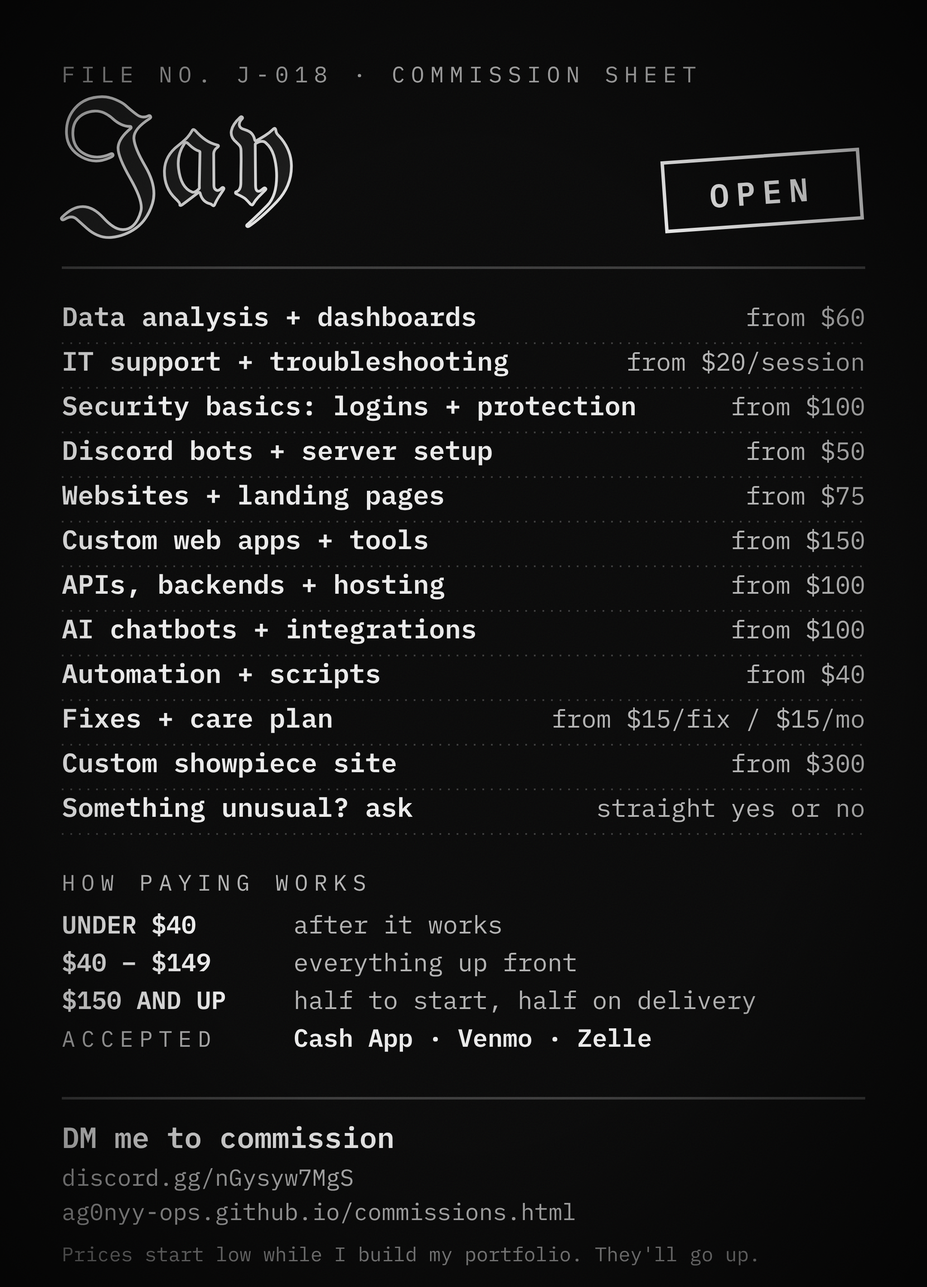
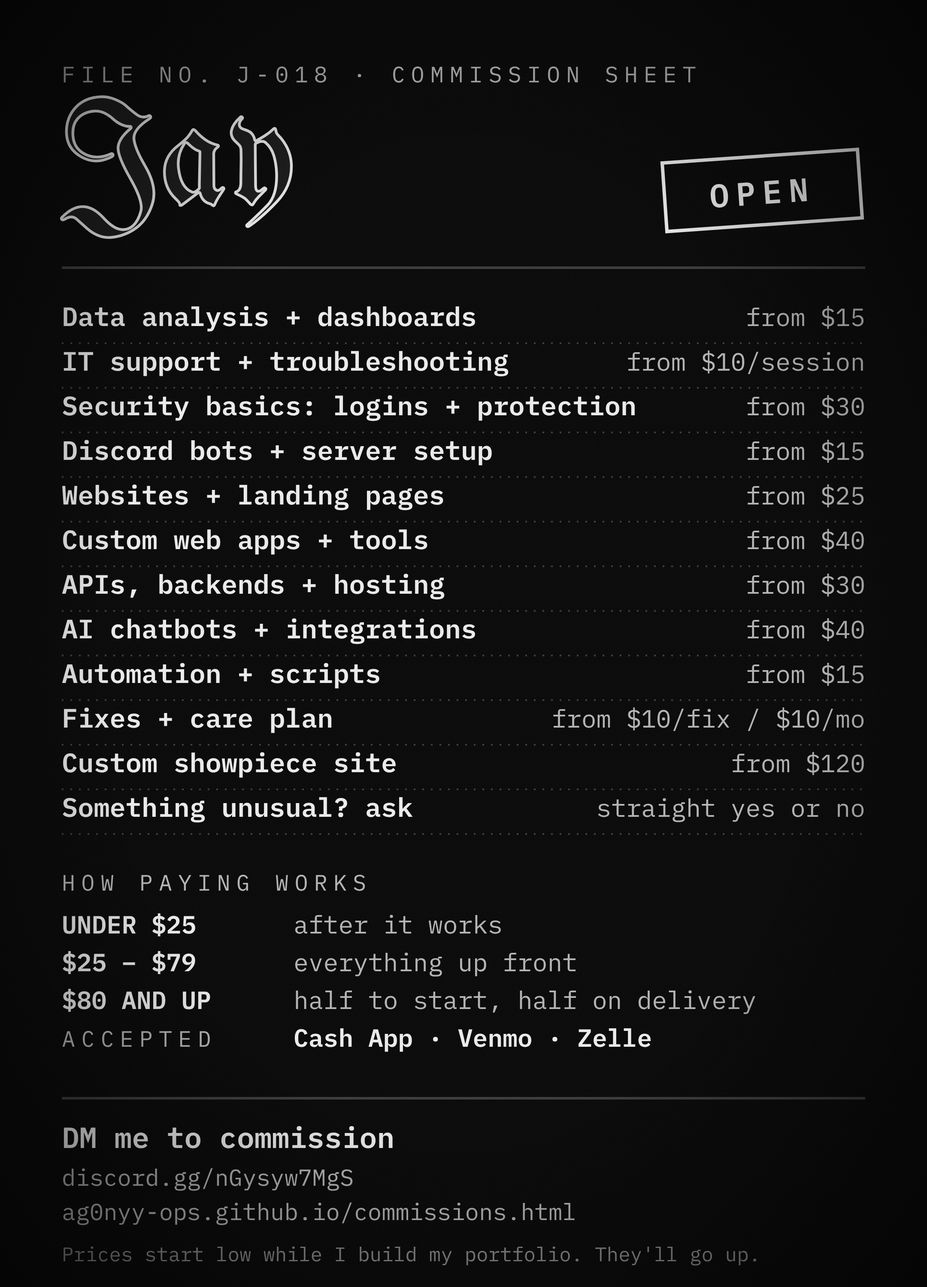
Cut all prices to realistic starter rates; new payment tiers

diff --git a/assets/data/everything.js b/assets/data/everything.js
@@ -31,114 +31,114 @@ window.EVERYTHING = {
   ],
   items: [
     // ---- data ----
-    [0, 1, 'Clean a messy spreadsheet', 'Fix dates, duplicates and typos so it is usable.', 60],
-    [0, 1, 'Answer one data question', 'A query or pivot table and a short written answer.', 60],
-    [0, 1, 'Turn a CSV into a chart', 'One clear chart you can drop into a doc or a post.', 70],
-    [0, 1, 'Merge two spreadsheets', 'Match rows from two sources into one clean sheet.', 80],
-    [0, 2, 'Monthly report that re-runs', 'Several sources in, one repeatable report out.', 120],
-    [0, 2, 'Member or sales stats', 'Counts, trends and top lists from your exports.', 130],
-    [0, 2, 'Survey results breakdown', 'Responses cleaned, grouped and charted.', 150],
-    [0, 3, 'Live dashboard', 'Charts that update from your data on their own.', 250],
-    [0, 3, 'Data pipeline', 'Pulls from an API or sheet on a schedule into a database.', 350],
-    [0, 3, 'Report sent on a schedule', 'A finished report lands in Discord or email every week.', 280],
+    [0, 1, 'Clean a messy spreadsheet', 'Fix dates, duplicates and typos so it is usable.', 15],
+    [0, 1, 'Answer one data question', 'A query or pivot table and a short written answer.', 15],
+    [0, 1, 'Turn a CSV into a chart', 'One clear chart you can drop into a doc or a post.', 20],
+    [0, 1, 'Merge two spreadsheets', 'Match rows from two sources into one clean sheet.', 25],
+    [0, 2, 'Monthly report that re-runs', 'Several sources in, one repeatable report out.', 40],
+    [0, 2, 'Member or sales stats', 'Counts, trends and top lists from your exports.', 45],
+    [0, 2, 'Survey results breakdown', 'Responses cleaned, grouped and charted.', 50],
+    [0, 3, 'Live dashboard', 'Charts that update from your data on their own.', 90],
+    [0, 3, 'Data pipeline', 'Pulls from an API or sheet on a schedule into a database.', 130],
+    [0, 3, 'Report sent on a schedule', 'A finished report lands in Discord or email every week.', 100],
     // ---- it support ----
-    [1, 1, 'Fix an account lockout', 'Get you back into an account and make it safer.', 20, '/session'],
-    [1, 1, 'Clean up a slow computer', 'Find what is slowing it down and fix it.', 20, '/session'],
-    [1, 1, 'Set up two-factor login', 'Turn on 2FA and store the backup codes properly.', 25, '/session'],
-    [1, 1, 'Fix email or calendar sync', 'Sort out accounts that will not sync.', 25, '/session'],
-    [1, 2, 'Set up a new computer', 'Apps, accounts, backups and settings in one go.', 60],
-    [1, 2, 'Backups that actually work', 'Automatic backups, tested with a real restore.', 70],
-    [1, 2, 'Password manager setup', 'Move your logins in and show you how to use it.', 60],
-    [1, 3, 'Monthly support plan', 'A regular check-in plus fixes as they come up.', 40, '/mo'],
-    [1, 3, 'Small team setup', 'Accounts, shared files and permissions for a small group.', 150],
-    [1, 3, 'Document your setup', 'A written guide so anyone can fix it later.', 120],
+    [1, 1, 'Fix an account lockout', 'Get you back into an account and make it safer.', 10, '/session'],
+    [1, 1, 'Clean up a slow computer', 'Find what is slowing it down and fix it.', 10, '/session'],
+    [1, 1, 'Set up two-factor login', 'Turn on 2FA and store the backup codes properly.', 10, '/session'],
+    [1, 1, 'Fix email or calendar sync', 'Sort out accounts that will not sync.', 10, '/session'],
+    [1, 2, 'Set up a new computer', 'Apps, accounts, backups and settings in one go.', 25],
+    [1, 2, 'Backups that actually work', 'Automatic backups, tested with a real restore.', 30],
+    [1, 2, 'Password manager setup', 'Move your logins in and show you how to use it.', 25],
+    [1, 3, 'Monthly support plan', 'A regular check-in plus fixes as they come up.', 20, '/mo'],
+    [1, 3, 'Small team setup', 'Accounts, shared files and permissions for a small group.', 60],
+    [1, 3, 'Document your setup', 'A written guide so anyone can fix it later.', 45],
     // ---- security basics ----
-    [2, 1, 'Check a site\'s basics', 'Headers, cookies and exposed secrets, with a fix list.', 100],
-    [2, 1, 'Find leaked keys in a repo', 'Scan your code and its whole history for secrets.', 100, null, 'b'],
-    [2, 1, 'Move secrets out of your code', 'Environment variables and a safe place to keep keys.', 110],
-    [2, 1, 'Add a Discord login', 'OAuth2 sign-in with Discord, done safely.', 150],
-    [2, 2, 'Google or GitHub login', 'OAuth2 sign-in with safe token handling.', 200],
-    [2, 2, 'Lock down sessions and cookies', 'HttpOnly, Secure and SameSite set properly.', 200, null, 'b'],
-    [2, 2, 'Stop CSRF on your forms', 'A token plus an origin check on every change.', 220, null, 'b'],
-    [2, 2, 'Secret scanner for your repo', 'Fails the build if a key ever gets committed.', 200, null, 'b'],
-    [2, 3, 'Encrypt stored tokens', 'Tokens encrypted at rest and tied to where they live.', 350, null, 'b'],
-    [2, 3, 'Security write-up and review', 'What is covered, what is not, and what to fix next.', 400],
+    [2, 1, 'Check a site\'s basics', 'Headers, cookies and exposed secrets, with a fix list.', 30],
+    [2, 1, 'Find leaked keys in a repo', 'Scan your code and its whole history for secrets.', 30, null, 'b'],
+    [2, 1, 'Move secrets out of your code', 'Environment variables and a safe place to keep keys.', 35],
+    [2, 1, 'Add a Discord login', 'OAuth2 sign-in with Discord, done safely.', 50],
+    [2, 2, 'Google or GitHub login', 'OAuth2 sign-in with safe token handling.', 80],
+    [2, 2, 'Lock down sessions and cookies', 'HttpOnly, Secure and SameSite set properly.', 80, null, 'b'],
+    [2, 2, 'Stop CSRF on your forms', 'A token plus an origin check on every change.', 80, null, 'b'],
+    [2, 2, 'Secret scanner for your repo', 'Fails the build if a key ever gets committed.', 80, null, 'b'],
+    [2, 3, 'Encrypt stored tokens', 'Tokens encrypted at rest and tied to where they live.', 140, null, 'b'],
+    [2, 3, 'Security write-up and review', 'What is covered, what is not, and what to fix next.', 150],
     // ---- discord ----
-    [3, 1, 'Server setup', 'Roles, channels and permissions set up properly.', 50, null, 'b'],
-    [3, 1, 'Welcome message and rules', 'A welcome post and a rules command.', 50, null, 'b'],
-    [3, 1, 'Built-in AutoMod rules', 'Spam, invite links and blocked words, with staff alerts.', 60, null, 'b'],
-    [3, 1, 'Role menus', 'Let members pick their own roles with buttons.', 70, null, 'b'],
-    [3, 2, 'Moderation bot', 'Warn, timeout, kick and ban, every action saved as a case.', 100, null, 'b'],
-    [3, 2, 'Role applications', 'A form, staff review, and approve or deny.', 120, null, 'b'],
-    [3, 2, 'Counting game bot', 'A counting channel that even accepts math like 2x+5=45.', 100, null, 'b'],
-    [3, 3, 'Moderation with escalation', 'Repeat offenders get stricter results, with appeals and a log.', 250, null, 'b'],
-    [3, 3, 'AI chat bot', 'Replies in character and looks up your real rules.', 280, null, 'b'],
-    [3, 3, 'The whole server system', 'Moderation, applications, welcome and AI chat, end to end.', 300, null, 'b'],
+    [3, 1, 'Server setup', 'Roles, channels and permissions set up properly.', 15, null, 'b'],
+    [3, 1, 'Welcome message and rules', 'A welcome post and a rules command.', 15, null, 'b'],
+    [3, 1, 'Built-in AutoMod rules', 'Spam, invite links and blocked words, with staff alerts.', 20, null, 'b'],
+    [3, 1, 'Role menus', 'Let members pick their own roles with buttons.', 15, null, 'b'],
+    [3, 2, 'Moderation bot', 'Warn, timeout, kick and ban, every action saved as a case.', 35, null, 'b'],
+    [3, 2, 'Role applications', 'A form, staff review, and approve or deny.', 40, null, 'b'],
+    [3, 2, 'Counting game bot', 'A counting channel that even accepts math like 2x+5=45.', 35, null, 'b'],
+    [3, 3, 'Moderation with escalation', 'Repeat offenders get stricter results, with appeals and a log.', 100, null, 'b'],
+    [3, 3, 'AI chat bot', 'Replies in character and looks up your real rules.', 120, null, 'b'],
+    [3, 3, 'The whole server system', 'Moderation, applications, welcome and AI chat, end to end.', 150, null, 'b'],
     // ---- websites ----
-    [4, 1, 'One-page site', 'A single page that does one job.', 75],
-    [4, 1, 'Link-in-bio page', 'All your links on one fast page.', 75],
-    [4, 1, 'Event page', 'Date, place, details and a way to reach you.', 85],
-    [4, 1, 'Menu or price list page', 'Your services or menu, easy to read on a phone.', 90],
-    [4, 2, 'Small business site', 'Up to about five pages with a contact path that works.', 150],
-    [4, 2, 'Portfolio site', 'Show your work properly, in your own style.', 180],
-    [4, 2, 'Site refresh', 'Take an old site and rebuild it faster and cleaner.', 160],
-    [4, 3, 'Showpiece site', 'A custom, memorable site with hand-built effects.', 300],
-    [4, 3, 'Interactive landing page', 'Animation and interaction that make people stay.', 350],
-    [4, 3, 'A site with its own design system', 'Fonts, colours and pieces that stay consistent.', 400],
+    [4, 1, 'One-page site', 'A single page that does one job.', 30],
+    [4, 1, 'Link-in-bio page', 'All your links on one fast page.', 25],
+    [4, 1, 'Event page', 'Date, place, details and a way to reach you.', 30],
+    [4, 1, 'Menu or price list page', 'Your services or menu, easy to read on a phone.', 35],
+    [4, 2, 'Small business site', 'Up to about five pages with a contact path that works.', 60],
+    [4, 2, 'Portfolio site', 'Show your work properly, in your own style.', 75],
+    [4, 2, 'Site refresh', 'Take an old site and rebuild it faster and cleaner.', 60],
+    [4, 3, 'Showpiece site', 'A custom, memorable site with hand-built effects.', 120],
+    [4, 3, 'Interactive landing page', 'Animation and interaction that make people stay.', 140],
+    [4, 3, 'A site with its own design system', 'Fonts, colours and pieces that stay consistent.', 160],
     // ---- web apps ----
-    [5, 1, 'Calculator or converter', 'One small tool that does one thing well.', 150],
-    [5, 1, 'Tracker', 'Track anything in a simple, fast tool.', 160],
-    [5, 1, 'Form that fills a spreadsheet', 'Collect answers and keep them in one sheet.', 150],
-    [5, 1, 'Countdown or timer page', 'A clean page for events, launches or goals.', 150],
-    [5, 2, 'Tool with logins', 'A small app where each person has an account.', 300],
-    [5, 2, 'Booking or sign-up page', 'People sign up and you see who is coming.', 330],
-    [5, 2, 'Admin panel', 'A page to manage your data without touching code.', 350],
-    [5, 3, 'Multi-user app with roles', 'Roles, permissions and a real database.', 500],
-    [5, 3, 'Team dashboard app', 'Charts and tables for a team, with logins.', 550],
-    [5, 3, 'A full product build', 'Several features, deployed, with written notes.', 700],
+    [5, 1, 'Calculator or converter', 'One small tool that does one thing well.', 50],
+    [5, 1, 'Tracker', 'Track anything in a simple, fast tool.', 55],
+    [5, 1, 'Form that fills a spreadsheet', 'Collect answers and keep them in one sheet.', 45],
+    [5, 1, 'Countdown or timer page', 'A clean page for events, launches or goals.', 40],
+    [5, 2, 'Tool with logins', 'A small app where each person has an account.', 110],
+    [5, 2, 'Booking or sign-up page', 'People sign up and you see who is coming.', 130],
+    [5, 2, 'Admin panel', 'A page to manage your data without touching code.', 140],
+    [5, 3, 'Multi-user app with roles', 'Roles, permissions and a real database.', 220],
+    [5, 3, 'Team dashboard app', 'Charts and tables for a team, with logins.', 240],
+    [5, 3, 'A full product build', 'Several features, deployed, with written notes.', 350],
     // ---- automation ----
-    [6, 1, 'Rename and sort files', 'A script that tidies a folder for you.', 40],
-    [6, 1, 'Pull a public page into a sheet', 'Collect info from a public page, respecting its rules.', 50],
-    [6, 1, 'Daily reminder', 'A message to Discord or email on a schedule.', 40],
-    [6, 1, 'Bulk edit script', 'Change hundreds of items at once without clicking.', 60],
-    [6, 2, 'Spreadsheet to Discord alerts', 'A new row sends a message to your server.', 100],
-    [6, 2, 'Auto-posting bot', 'Posts updates to your server on a schedule.', 100],
-    [6, 2, 'Form that triggers several steps', 'One submission kicks off a chain of actions.', 120],
-    [6, 3, 'Multi-step workflow', 'Several tools chained so the boring work runs itself.', 200],
-    [6, 3, 'Monitoring with alerts', 'Checks something and tells you when it breaks.', 220],
-    [6, 3, 'Automation that retries and logs', 'Keeps running and keeps a record when things fail.', 250],
+    [6, 1, 'Rename and sort files', 'A script that tidies a folder for you.', 15],
+    [6, 1, 'Pull a public page into a sheet', 'Collect info from a public page, respecting its rules.', 20],
+    [6, 1, 'Daily reminder', 'A message to Discord or email on a schedule.', 15],
+    [6, 1, 'Bulk edit script', 'Change hundreds of items at once without clicking.', 25],
+    [6, 2, 'Spreadsheet to Discord alerts', 'A new row sends a message to your server.', 40],
+    [6, 2, 'Auto-posting bot', 'Posts updates to your server on a schedule.', 40],
+    [6, 2, 'Form that triggers several steps', 'One submission kicks off a chain of actions.', 50],
+    [6, 3, 'Multi-step workflow', 'Several tools chained so the boring work runs itself.', 90],
+    [6, 3, 'Monitoring with alerts', 'Checks something and tells you when it breaks.', 100],
+    [6, 3, 'Automation that retries and logs', 'Keeps running and keeps a record when things fail.', 110],
     // ---- ai ----
-    [7, 1, 'Chatbot for your FAQ', 'Answers the questions you keep getting.', 100],
-    [7, 1, 'Summarize long text', 'Turn long threads or documents into short summaries.', 100],
-    [7, 1, 'Reply drafter you review', 'Drafts replies that you read and send yourself.', 120],
-    [7, 1, 'Rewrite in your voice', 'Your text, cleaned up and still sounding like you.', 100],
-    [7, 2, 'Bot that looks things up', 'Pulls real answers from your data instead of guessing.', 200],
-    [7, 2, 'Ask your documents', 'Search and question your own files.', 220],
-    [7, 2, 'Server assistant with your real rules', 'Answers members from your actual rules and info.', 200, null, 'b'],
-    [7, 3, 'Assistant that asks before it acts', 'Proposes actions and waits for a human to confirm.', 300, null, 'b'],
-    [7, 3, 'Model picker with usage limits', 'A smarter model for hard questions, with budgets.', 350, null, 'b'],
-    [7, 3, 'AI wired into your tools', 'Connected to your systems, like my Discord bots.', 320, null, 'b'],
+    [7, 1, 'Chatbot for your FAQ', 'Answers the questions you keep getting.', 40],
+    [7, 1, 'Summarize long text', 'Turn long threads or documents into short summaries.', 40],
+    [7, 1, 'Reply drafter you review', 'Drafts replies that you read and send yourself.', 50],
+    [7, 1, 'Rewrite in your voice', 'Your text, cleaned up and still sounding like you.', 40],
+    [7, 2, 'Bot that looks things up', 'Pulls real answers from your data instead of guessing.', 90],
+    [7, 2, 'Ask your documents', 'Search and question your own files.', 100],
+    [7, 2, 'Server assistant with your real rules', 'Answers members from your actual rules and info.', 90, null, 'b'],
+    [7, 3, 'Assistant that asks before it acts', 'Proposes actions and waits for a human to confirm.', 140, null, 'b'],
+    [7, 3, 'Model picker with usage limits', 'A smarter model for hard questions, with budgets.', 160, null, 'b'],
+    [7, 3, 'AI wired into your tools', 'Connected to your systems, like my Discord bots.', 150, null, 'b'],
     // ---- backends + apis ----
-    [8, 1, 'A small API', 'A few endpoints that return what you need.', 100],
-    [8, 1, 'Webhook receiver', 'Catches events from another service and acts on them.', 100],
-    [8, 1, 'Hosting setup', 'Get something deployed and running online.', 100],
-    [8, 1, 'Domain and HTTPS', 'Point your domain at your site over a secure connection.', 100],
-    [8, 2, 'API with a database', 'Store and read your data safely.', 200],
-    [8, 2, 'Login-protected API', 'Only the right people can use it.', 250],
-    [8, 2, 'Scheduled jobs', 'Tasks that run on their own at set times.', 200],
-    [8, 3, 'A full backend', 'Database, logins, scheduled jobs and deployment.', 400],
-    [8, 3, 'Cloudflare Worker app', 'Serverless and fast, like my project skyscrob.', 450, null, 'b'],
-    [8, 3, 'Backups and monitoring', 'Your data backed up and problems noticed early.', 400],
+    [8, 1, 'A small API', 'A few endpoints that return what you need.', 40],
+    [8, 1, 'Webhook receiver', 'Catches events from another service and acts on them.', 40],
+    [8, 1, 'Hosting setup', 'Get something deployed and running online.', 40],
+    [8, 1, 'Domain and HTTPS', 'Point your domain at your site over a secure connection.', 30],
+    [8, 2, 'API with a database', 'Store and read your data safely.', 90],
+    [8, 2, 'Login-protected API', 'Only the right people can use it.', 110],
+    [8, 2, 'Scheduled jobs', 'Tasks that run on their own at set times.', 90],
+    [8, 3, 'A full backend', 'Database, logins, scheduled jobs and deployment.', 180],
+    [8, 3, 'Cloudflare Worker app', 'Serverless and fast, like my project skyscrob.', 200, null, 'b'],
+    [8, 3, 'Backups and monitoring', 'Your data backed up and problems noticed early.', 180],
     // ---- hardware + mobile ----
-    [9, 1, 'Phone app prototype', 'A clickable prototype to test an idea.', 100],
-    [9, 1, 'Sensor reading logger', 'A board that records readings to a file or screen.', 150, null, 'y'],
-    [9, 1, 'LED or button project', 'A small device you can interact with.', 120, null, 'y'],
-    [9, 1, 'Raspberry Pi dashboard', 'Show readings from a Pi on a web page.', 150, null, 'y'],
-    [9, 2, 'Microcontroller project', 'Firmware for a board, scoped together first.', 300, null, 'y'],
-    [9, 2, 'Device that sends Discord alerts', 'A board that messages your server when something happens.', 350, null, 'y'],
-    [9, 2, 'iOS app in SwiftUI', 'A native app built and tested with you.', 400, null, 'y'],
-    [9, 3, 'Hardware and app together', 'A device and an app that work as one.', 600, null, 'y'],
-    [9, 3, 'A full iOS app', 'Built end to end. You provide the Apple developer account.', 500, null, 'y'],
-    [9, 3, 'Something unusual', 'If we can pull it off, we do it. I say yes or no first.', 500, null, 'y'],
+    [9, 1, 'Phone app prototype', 'A clickable prototype to test an idea.', 50],
+    [9, 1, 'Sensor reading logger', 'A board that records readings to a file or screen.', 70, null, 'y'],
+    [9, 1, 'LED or button project', 'A small device you can interact with.', 50, null, 'y'],
+    [9, 1, 'Raspberry Pi dashboard', 'Show readings from a Pi on a web page.', 70, null, 'y'],
+    [9, 2, 'Microcontroller project', 'Firmware for a board, scoped together first.', 130, null, 'y'],
+    [9, 2, 'Device that sends Discord alerts', 'A board that messages your server when something happens.', 150, null, 'y'],
+    [9, 2, 'iOS app in SwiftUI', 'A native app built and tested with you.', 180, null, 'y'],
+    [9, 3, 'Hardware and app together', 'A device and an app that work as one.', 280, null, 'y'],
+    [9, 3, 'A full iOS app', 'Built end to end. You provide the Apple developer account.', 250, null, 'y'],
+    [9, 3, 'Something unusual', 'If we can pull it off, we do it. I say yes or no first.', 250, null, 'y'],
   ],
 };

diff --git a/assets/data/prices.js b/assets/data/prices.js
@@ -13,35 +13,35 @@ window.PRICES = {
   label: 'from',                      // word in front of every price
   onRequest: 'quote on request',      // shown when amount is null
   items: {
-    'data':             { amount: 60 },                     // data analysis + dashboards
-    'it-support':       { amount: 20, per: '/session' },    // IT support + troubleshooting
-    'security':         { amount: 100 },                    // security basics: logins, tokens, protection
+    'data':             { amount: 15 },                     // data analysis + dashboards
+    'it-support':       { amount: 10, per: '/session' },    // IT support + troubleshooting
+    'security':         { amount: 30 },                    // security basics: logins, tokens, protection
     // --- levels: each card's first level uses the card's own price above; these are levels 2 and 3 ---
-    'data-report':      { amount: 120 },                    // data: report
-    'data-dashboard':   { amount: 250 },                    // data: dashboard
-    'it-setup':         { amount: 60 },                     // it: setup day
-    'it-plan':          { amount: 40, per: '/mo' },         // it: support plan
-    'security-standard':{ amount: 200 },                    // security: standard
-    'security-full':    { amount: 350 },                    // security: full basics
-    'discord-bot':      { amount: 100 },                    // discord: one custom bot
-    'discord-system':   { amount: 250 },                    // discord: the full system
-    'website-small':    { amount: 150 },                    // websites: small site
-    'web-app-standard': { amount: 300 },                    // web apps: app with accounts
-    'web-app-full':     { amount: 500 },                    // web apps: full app
+    'data-report':      { amount: 40 },                    // data: report
+    'data-dashboard':   { amount: 90 },                    // data: dashboard
+    'it-setup':         { amount: 25 },                     // it: setup day
+    'it-plan':          { amount: 20, per: '/mo' },         // it: support plan
+    'security-standard':{ amount: 80 },                    // security: standard
+    'security-full':    { amount: 140 },                    // security: full basics
+    'discord-bot':      { amount: 35 },                    // discord: one custom bot
+    'discord-system':   { amount: 150 },                    // discord: the full system
+    'website-small':    { amount: 60 },                    // websites: small site
+    'web-app-standard': { amount: 110 },                    // web apps: app with accounts
+    'web-app-full':     { amount: 220 },                    // web apps: full app
     // --- the big jobs (estimates: the final price is quoted after a feasibility check) ---
-    'embedded':         { amount: 300 },                    // embedded + hardware projects
-    'ios-app':          { amount: 500 },                    // a full custom iOS app
-    'ai-assistant':     { amount: 300 },                    // an AI assistant wired into your tools
-    'backends':         { amount: 100 },                    // APIs, backends + hosting
-    'websites':         { amount: 75 },                     // websites + landing pages
-    'web-apps':         { amount: 150 },                    // 02 custom web apps + tools
-    'ai':               { amount: 100 },                    // 03 ai chatbots + integrations
-    'automation':       { amount: 40 },                     // 04 automation + scripts
-    'discord-bots':     { amount: 50 },                     // 05 discord bots + server setup
-    'mobile':           { amount: 100 },                    // ios / mobile prototypes
-    'maintenance':      { amount: 15, per: ' per fix',      // 07 fixes + maintenance
-                          or: { amount: 15, per: '/mo care plan' } },
-    'custom-showpiece': { amount: 300 },                    // the "like this one" line
+    'embedded':         { amount: 150 },                    // embedded + hardware projects
+    'ios-app':          { amount: 250 },                    // a full custom iOS app
+    'ai-assistant':     { amount: 150 },                    // an AI assistant wired into your tools
+    'backends':         { amount: 30 },                    // APIs, backends + hosting
+    'websites':         { amount: 25 },                     // websites + landing pages
+    'web-apps':         { amount: 40 },                    // 02 custom web apps + tools
+    'ai':               { amount: 40 },                    // 03 ai chatbots + integrations
+    'automation':       { amount: 15 },                     // 04 automation + scripts
+    'discord-bots':     { amount: 15 },                     // 05 discord bots + server setup
+    'mobile':           { amount: 50 },                    // ios / mobile prototypes
+    'maintenance':      { amount: 10, per: ' per fix',      // 07 fixes + maintenance
+                          or: { amount: 10, per: '/mo care plan' } },
+    'custom-showpiece': { amount: 120 },                    // the "like this one" line
   },
 };
 

diff --git a/style/demo.html b/style/demo.html
@@ -66,9 +66,9 @@
       <p class="label">Level tabs (click one: the box swaps)</p>
       <div style="margin-top:1rem;max-width:44rem">
         <div class="level-tabs" role="tablist" id="lt">
-          <button class="level-tab" role="tab" aria-selected="true"><span>Quick fix</span><b>from $20</b></button>
-          <button class="level-tab" role="tab" aria-selected="false"><span>Setup</span><b>from $60</b></button>
-          <button class="level-tab" role="tab" aria-selected="false"><span>Support plan</span><b>from $40/mo</b></button>
+          <button class="level-tab" role="tab" aria-selected="true"><span>Quick fix</span><b>from $10</b></button>
+          <button class="level-tab" role="tab" aria-selected="false"><span>Setup</span><b>from $25</b></button>
+          <button class="level-tab" role="tab" aria-selected="false"><span>Support plan</span><b>from $20/mo</b></button>
         </div>
         <div class="level-panel"><div class="level-panel__inner" id="lp"></div></div>
       </div>
@@ -77,7 +77,7 @@
     <section>
       <p class="label">Draggable boxes (grab the top tab, they collide and spring home)</p>
       <div class="wall" id="wall" style="margin-top:1rem">
-        <article class="thing"><div class="thing__grip" aria-label="Drag"><i></i><i></i><i></i></div><div class="thing__body"><p class="thing__cat">Data</p><h3 class="thing__title">Clean up a spreadsheet</h3><p class="thing__line">Dupes, typos and formats fixed.</p><div class="thing__foot"><span class="thing__price">from $60</span></div></div></article>
+        <article class="thing"><div class="thing__grip" aria-label="Drag"><i></i><i></i><i></i></div><div class="thing__body"><p class="thing__cat">Data</p><h3 class="thing__title">Clean up a spreadsheet</h3><p class="thing__line">Dupes, typos and formats fixed.</p><div class="thing__foot"><span class="thing__price">from $25</span></div></div></article>
         <article class="thing"><div class="thing__grip" aria-label="Drag"><i></i><i></i><i></i></div><div class="thing__body"><p class="thing__cat">Data</p><h3 class="thing__title">Moderation bot</h3><p class="thing__line">Warns, timeouts, logs, appeals.</p><div class="thing__foot"><span class="thing__price">from $100</span><span class="thing__tag thing__tag--built">built it before</span></div></div></article>
         <article class="thing"><div class="thing__grip" aria-label="Drag"><i></i><i></i><i></i></div><div class="thing__body"><p class="thing__cat">Data</p><h3 class="thing__title">Fix my slow PC</h3><p class="thing__line">Find what is slowing it down.</p><div class="thing__foot"><span class="thing__price">from $20/session</span></div></div></article>
         <article class="thing"><div class="thing__grip" aria-label="Drag"><i></i><i></i><i></i></div><div class="thing__body"><p class="thing__cat">Data</p><h3 class="thing__title">Landing page</h3><p class="thing__line">One clean page that loads fast.</p><div class="thing__foot"><span class="thing__price">from $75</span></div></div></article>
@@ -89,7 +89,7 @@
   <script src="../assets/js/wall.js"></script>
   <script>
     // level tabs: swap the panel (the site also slides it and pushes sibling cards aside, see STYLE.md section 8)
-    const L = [['Quick fix','from $20','One thing is broken, I fix it.'],['Setup','from $60','A fresh machine or account set up right.'],['Support plan','from $40/mo','I keep an eye on it and fix things as they come up.']];
+    const L = [['Quick fix','from $10','One thing is broken, I fix it.'],['Setup','from $25','A fresh machine or account set up right.'],['Support plan','from $20/mo','I keep an eye on it and fix things as they come up.']];
     const tabs = [...document.querySelectorAll('#lt .level-tab')], panel = document.getElementById('lp');
     const show = (i) => { tabs.forEach((t, j) => t.setAttribute('aria-selected', j === i));
       panel.innerHTML = '<div class="level__head"><span class="level__title">' + L[i][0] + '</span><b>' + L[i][1] + '</b></div><p style="margin:0;color:var(--muted)">' + L[i][2] + '</p>'; };

diff --git a/commissions.html b/commissions.html
@@ -55,9 +55,9 @@
   </script>
   <script src="assets/js/main.js?v=14" defer></script>
   <script src="assets/js/levels.js?v=3" defer></script>
-  <script src="assets/data/everything.js?v=1" defer></script>
+  <script src="assets/data/everything.js?v=3" defer></script>
   <script src="assets/js/wall.js?v=2" defer></script>
-  <script src="assets/js/everything.js?v=1" defer></script>
+  <script src="assets/js/everything.js?v=2" defer></script>
 </head>
 <body>
   <a class="skip" href="#main">Skip to content</a>
@@ -452,7 +452,7 @@
         <a class="price__cta" href="https://discord.gg/nGysyw7MgS" target="_blank" rel="noopener">DM to book <span aria-hidden="true">↗</span></a>
       </p>
       <p class="scope-note bleed">Final price depends on scope. Unusual jobs are quoted per project. <a href="https://discord.gg/nGysyw7MgS" target="_blank" rel="noopener">DM me with what you need.</a></p>
-      <script src="assets/data/prices.js?v=8"></script>
+      <script src="assets/data/prices.js?v=10"></script>
     </section>
 
     <!-- ================= HOW IT WORKS + PAYING ================= -->
@@ -475,9 +475,9 @@
         <caption class="sr-only">When payment is due, by price</caption>
         <thead><tr><th scope="col">Job size</th><th scope="col">When you pay</th></tr></thead>
         <tbody>
-          <tr><th scope="row">Under $40<br><span>quick fixes, tiny scripts</span></th><td>After it works. You check it, then pay.</td></tr>
-          <tr><th scope="row">$40 to $149</th><td>Everything up front, then I build it.</td></tr>
-          <tr><th scope="row">$150 and up</th><td>Half to start, half when it's delivered.</td></tr>
+          <tr><th scope="row">Under $25<br><span>quick fixes, tiny scripts</span></th><td>After it works. You check it, then pay.</td></tr>
+          <tr><th scope="row">$25 to $79</th><td>Everything up front, then I build it.</td></tr>
+          <tr><th scope="row">$80 and up</th><td>Half to start, half when it's delivered.</td></tr>
         </tbody>
       </table>
       <p class="paymethods bleed"><span>Accepted</span> Cash App, Venmo, Zelle</p>

diff --git a/tools/make-commission-sheet.js b/tools/make-commission-sheet.js
@@ -58,7 +58,7 @@ function body() {
   // paying
   const py = 380 + rows.length * 52 + 34;
   s += `<text x="${X0}" y="${py}" font-size="26" letter-spacing="7" fill="${MUTED}">HOW PAYING WORKS</text>`;
-  const pay = [['UNDER $40', 'after it works'], ['$40 – $149', 'everything up front'], ['$150 AND UP', 'half to start, half on delivery']];
+  const pay = [['UNDER $25', 'after it works'], ['$25 – $79', 'everything up front'], ['$80 AND UP', 'half to start, half on delivery']];
   pay.forEach(([a, b], i) => {
     const y = py + 50 + i * 44;
     s += `<text x="${X0}" y="${y}" font-size="29" font-weight="600" fill="${FG}">${esc(a)}</text>`;

diff --git a/index.html b/index.html
@@ -269,7 +269,7 @@
         <span class="stamp stamp--big">Open for commissions</span>
       </div>
       <!-- fills every [data-price] from the one price list -->
-      <script src="assets/data/prices.js?v=8"></script>
+      <script src="assets/data/prices.js?v=10"></script>
     </section>
 
     <!-- ================= ABOUT ================= -->
